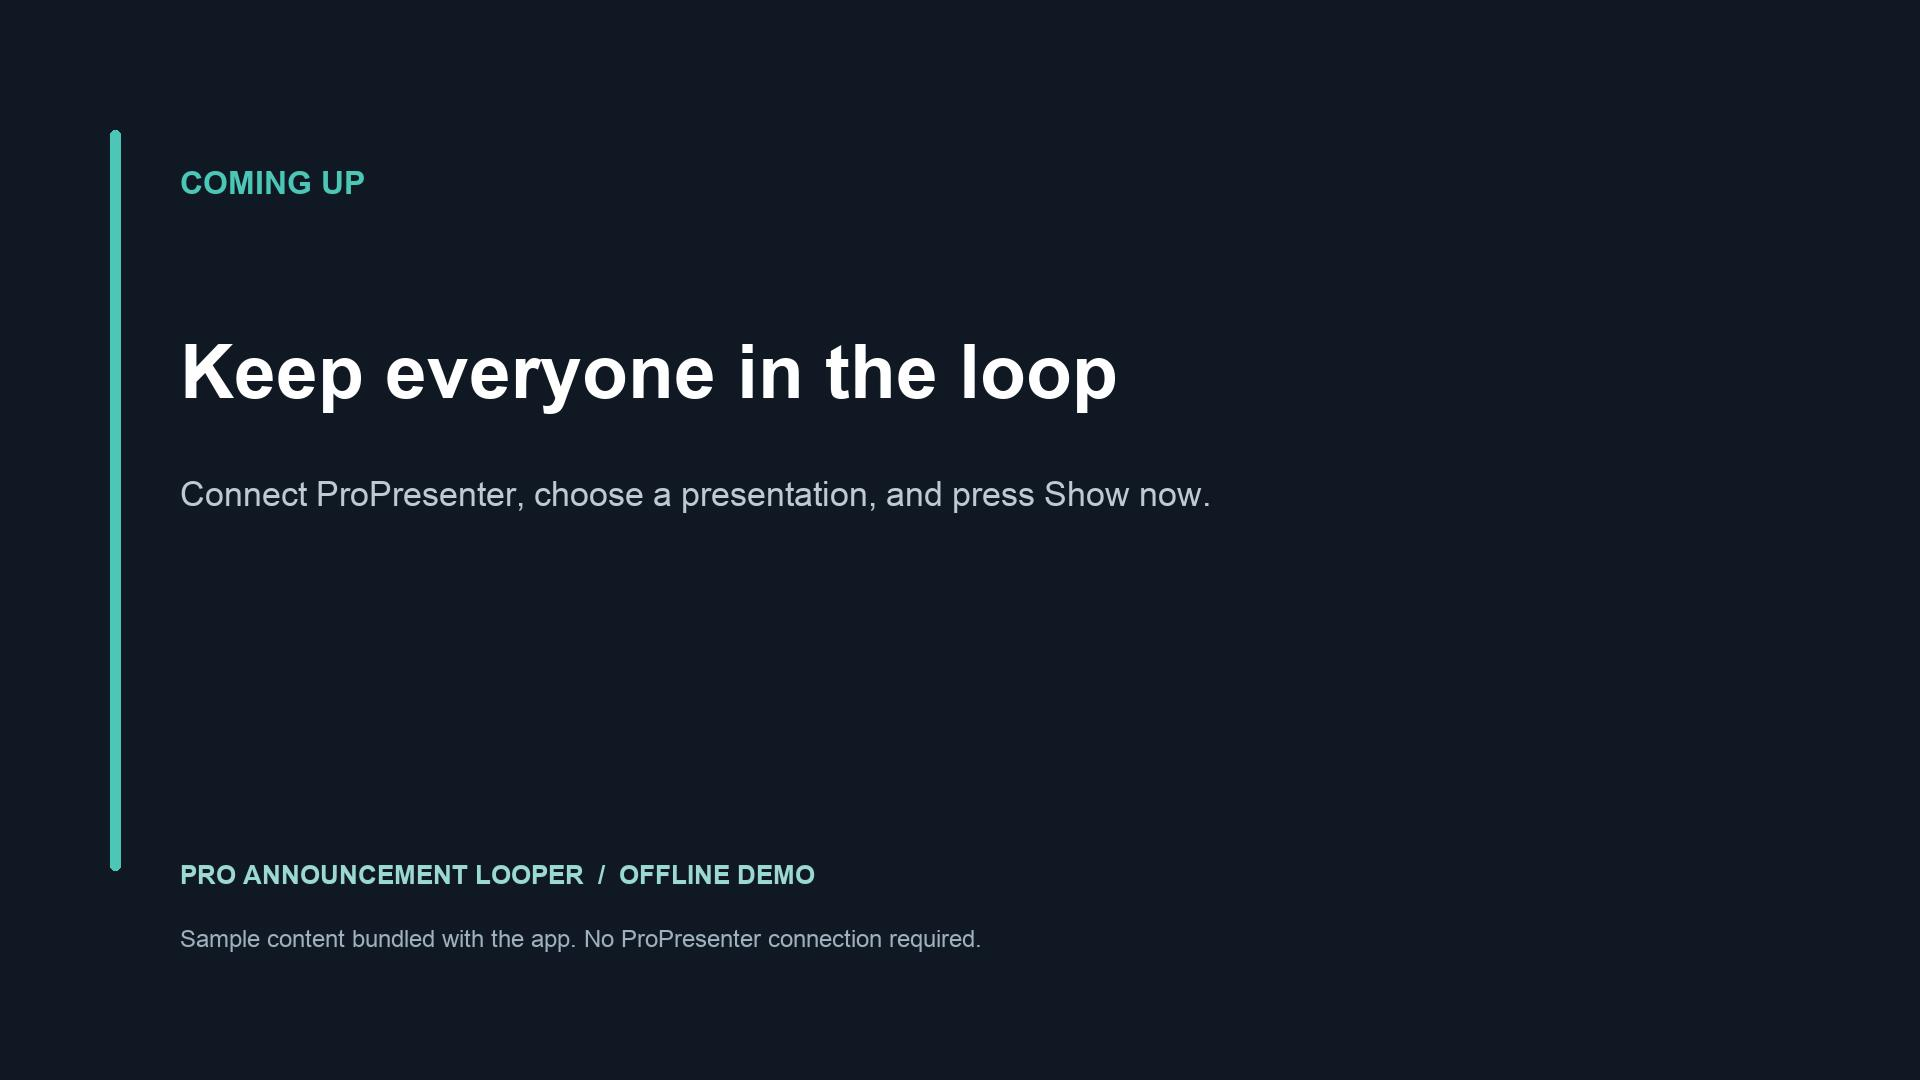
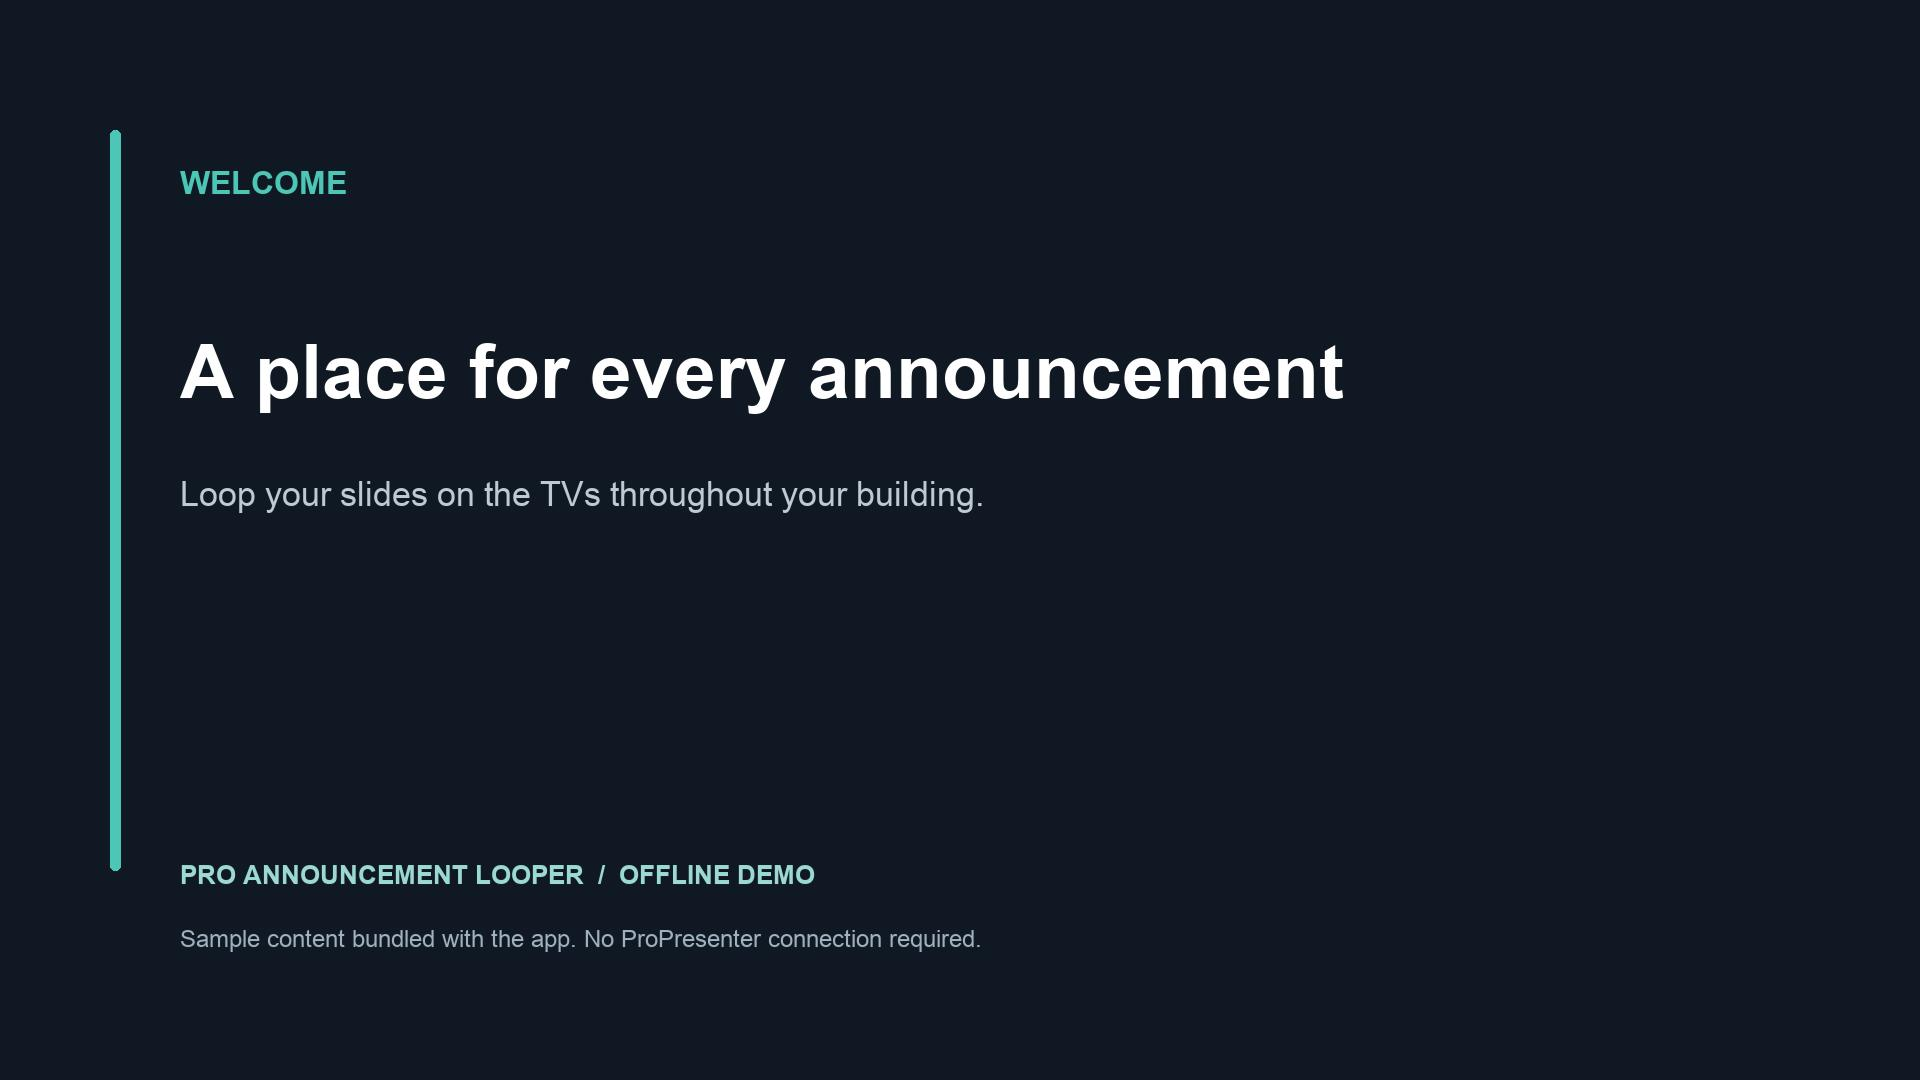
Configure standalone screensaver through companion player only

diff --git a/scripts/preflight.py b/scripts/preflight.py
@@ -33,6 +33,10 @@ def check():
             sources = '\n'.join(archive.read(n).decode() for n in names if n.endswith('.brs'))
             assert bool(re.search(r'(?im)^sub Main\(',sources)) == (kind == 'player')
             assert ('CreateObject("roInput")' in sources) == (kind == 'player')
+            if kind == 'screensaver':
+                assert not re.search(r'(?im)^function onKeyEvent\(', sources), 'Screensaver must have no custom key handler'
+                assert 'components/ControlsScene.brs' not in names
+                assert 'RunScreenSaverSettings' not in sources
             assert not any(n.startswith(('node_modules/','tests/','branding/','store/')) for n in names)
             assert not any(Path(n).suffix in ('.env','.pkg','.key','.pem') for n in names)
             assert png_size((ROOT/'store'/listing[kind]['poster']).read_bytes()) == (540,405)

diff --git a/scripts/build.py b/scripts/build.py
@@ -16,6 +16,10 @@ def build(kind):
     shutil.copy(ROOT / 'manifests' / kind, target / 'manifest')
     for folder in ('components', 'images'):
         shutil.copytree(ROOT / folder, target / folder)
+    # The standalone screensaver contains no custom remote-key handler.
+    if kind == 'screensaver':
+        for suffix in ('.brs', '.xml'):
+            (target / 'components' / ('ControlsScene' + suffix)).unlink()
     (target / 'source').mkdir()
     for name in ('common.brs', 'model.brs', kind + '.brs'):
         shutil.copy(ROOT / 'source' / name, target / 'source' / name)

diff --git a/README.md b/README.md
@@ -58,17 +58,17 @@ The player asks ProPresenter for JPEG thumbnails (`thumbnail_type=jpeg`) and als
 
 Run `npm run build`, then copy `.vscode/launch.example.json` to `.vscode/launch.json`. Launch **Pro Announcement Looper: player** and enter your test Roku address and developer password. Rebuild after editing sources because the debugger deploys the expanded `out/player` folder.
 
-For the screensaver, sideload its ZIP and use Roku's screensaver **Preview** and **Change screensaver settings** entries. Its debug console uses port 8087; the normal player uses port 8085.
+For the screensaver, sideload its ZIP and use Roku's screensaver **Preview** entry. Its debug console uses port 8087; the normal player uses port 8085.
 
 **Roku allows only one sideloaded developer app at a time.** Sideloading the companion replaces the sideloaded player. Simultaneous installation of both requires appropriate Roku distribution/signing; this is not solved by providing two ZIPs. Test them separately first. Store distribution also requires Roku certification, including applicable product-policy review.
 
 ## Screensaver installation and settings
 
-Roku's current rules require the screensaver to be a standalone package. After installing it, choose **Settings → Theme → Screensavers → Pro Announcement Looper Screensaver → Set as screensaver**. Use its **Change screensaver settings** menu to configure the address, profiles, presentation, duration, refresh, schedules, and preview.
+Roku's current rules require the screensaver to be a standalone package. After installing it, choose **Settings → Theme → Screensavers → Pro Announcement Screensaver → Set as screensaver**. Configure the connection, presentations, timing, refresh intervals and schedules in the companion **Pro Announcement Looper** player. There is no separate screensaver settings screen.
 
-Both packages use the registry section `ProAnnouncementLooperV1`. Registry sharing requires the same developer signing key. Without that, configure them separately. An installed player and screensaver sharing that key read the same saved settings when launched; they do not live-sync changes into an already running slideshow.
+Both packages use the registry section `ProAnnouncementLooperV1`. Registry sharing requires the same developer signing key. The standalone screensaver requires the companion player signed with the same key for configuration. An installed player and screensaver sharing that key read the same saved settings when launched; they do not live-sync changes into an already running slideshow.
 
-The compressed-image caches are deliberately separate. This avoids one running context deleting files used by the other. The screensaver may therefore download the selected deck once even when the player has already cached it. Refresh the screensaver's cache through **Change screensaver settings → Presentations → Refresh all**. There are no interactive controls inside a running system screensaver: a remote key exits it under Roku's normal rules.
+The compressed-image caches are deliberately separate. This avoids one running context deleting files used by the other. The screensaver may therefore download the selected deck once even when the player has already cached it. To check the screensaver's cache immediately, exit and restart the screensaver; startup checks ProPresenter again. Per-presentation refresh intervals configured in the player also apply during screensaver playback. There are no interactive controls inside a running system screensaver: a remote key exits it under Roku's normal rules.
 
 A manually started player must respect the system screensaver. For church deployment, select the announcements companion so that idle takeover continues showing announcements. Test that transition on the target OS/device. This project does not fake remote key presses, play a dummy video, or override the system screensaver.
 
@@ -192,7 +192,7 @@ No physical-device, live-ProPresenter, visual-rendering, or six-hour runtime che
 - `components/ApiWorker.*`: asynchronous network work and registry/filesystem operations, away from the render thread.
 - `components/AnnouncementsScene.*`: remote-driven settings, bounded image playback, decode validation, refresh handoff.
 - `source/player.brs`: regular app entry point.
-- `source/screensaver.brs`: standalone screensaver and settings entry points.
+- `source/screensaver.brs`: standalone screensaver entry point; configuration is in the companion player.
 - `scripts/`: repeatable packaging, artwork, mock server, local checks.
 - `tests/`: executable BrightScript data/state tests and mock endpoint tests.
 
